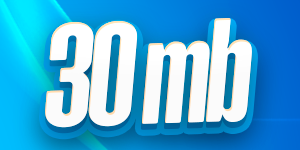
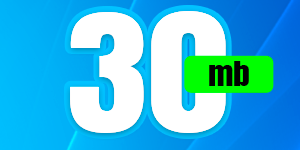
feat: change plans design

diff --git a/src/pages/home/sections/ChoosePlan/index.tsx b/src/pages/home/sections/ChoosePlan/index.tsx
@@ -86,11 +86,6 @@ export default function Plans() {
               btnName="Contratar"
               content={
                 <div>
-                  <Typography
-                    title={"300MB"}
-                    alignment="center"
-                    descriptionAlignment="center"
-                  />
                   <div>
                     {generateAdvantages(
                      <RiSpeedUpFill size={iconSize}/>,
@@ -131,11 +126,6 @@ export default function Plans() {
               btnName="Contratar"
               content={
                 <div>
-                  <Typography
-                    title={"200MB"}
-                    alignment="center"
-                    descriptionAlignment="center"
-                  />
                   <div>
                     {generateAdvantages(
                       <RiSpeedUpFill size={iconSize}/>,
@@ -176,11 +166,6 @@ export default function Plans() {
               btnName="Contratar"
               content={
                 <div className={plans.description}>
-                  <Typography
-                    title={"100MB"}
-                    alignment="center"
-                    descriptionAlignment="center"
-                  />
                   <div>
                     {generateAdvantages(
                      <RiSpeedUpFill size={iconSize}/>,
@@ -222,7 +207,6 @@ export default function Plans() {
               btnName="Contratar"
               content={
                 <div className={plans.description}>
-                  <h1 className={plans.cardTitle}>70MB</h1>
                   <div>
                     {generateAdvantages(
                       <RiSpeedUpFill size={iconSize} style={{transform: "scaleX(-1)"}}/>,
@@ -259,7 +243,6 @@ export default function Plans() {
               btnName="Contratar"
               content={
                 <div className={plans.description}>
-                  <h1 className={plans.cardTitle}>50MB</h1>
                   <div>
                     {generateAdvantages(
                       <RiSpeedUpFill size={iconSize} style={{transform: "scaleX(-1)"}}/>,
@@ -296,7 +279,6 @@ export default function Plans() {
               btnName="Contratar"
               content={
                 <div className={plans.description}>
-                  <h1 className={plans.cardTitle}>30MB</h1>
                   <div>
                     {generateAdvantages(
                       <RiSpeedUpFill size={iconSize} style={{transform: "scaleX(-1)"}}/>,

diff --git a/src/pages/Contact/sections/ContactForm/index.tsx b/src/pages/Contact/sections/ContactForm/index.tsx
@@ -1,10 +1,11 @@
 import React from 'react';
-import { Button, Form, Input, Select, Space } from 'antd';
+import { Button, Form, FormInstance, Input, Select, Space } from 'antd';
 import TextArea from 'antd/es/input/TextArea';
 import { useMediaQuery } from 'react-responsive';
+// import nodemailer from 'nodemailer';
 
 
-const SubmitButton = ({ form, children }:any) => {
+const SubmitButton = ({ form, children }:{form:FormInstance<any>, children:any}) => {
   const [submittable, setSubmittable] = React.useState(false);
   // Watch all values
   const values = Form.useWatch([], form);
@@ -17,12 +18,43 @@ const SubmitButton = ({ form, children }:any) => {
       .catch(() => setSubmittable(false));
   }, [form, values]);
   return (
-    <Button type="primary" htmlType="submit" disabled={!submittable}>
+    <Button onSubmit={() => sendEmail(form)} type="primary" htmlType="submit" disabled={!submittable}>
       {children}
     </Button>
   );
 };
 
+
+const sendEmail = async (form:FormInstance<any>) => {
+}
+// const sendEmail = async (form:FormInstance<any>) => {
+//   const transporter = nodemailer.createTransport({
+//     host: process.env.REACT_APP_EMAIL_HOST,
+//     port: 465,
+//     secure: true,
+//     auth: {
+//       user: process.env.REACT_APP_EMAIL_USER,
+//       pass: process.env.REACT_APP_EMAIL_PASS,
+//     },
+//   });
+
+//   const options = {
+//     from: form.getFieldValue("email"),
+//     to: process.env.REACT_APP_EMAIL_TO,
+//     subject: form.getFieldValue("subject"),
+//     html: `
+//     <h1>Contato</h1>
+//     <p><strong>Nome:</strong> ${form.getFieldValue("name")}</p>
+//     <p><strong>Email:</strong> ${form.getFieldValue("email")}</p>
+//     <p><strong>Telefone:</strong> ${form.getFieldValue("phone")}</p>
+//     <p><strong>Assunto:</strong> ${form.getFieldValue("subject")}</p>
+//     <p><strong>Setor:</strong> ${form.getFieldValue("sector")}</p>
+//     <p><strong>Mensagem:</strong> ${form.getFieldValue("message")}</p>
+//     `,
+//   };
+  
+//   await transporter.sendMail(options);
+// }
 
 export default function ContactForm() {
   const isMobile = useMediaQuery({ query: '(max-width: 768px)' });

diff --git a/src/pages/home/sections/ChoosePlan/plans.module.sass b/src/pages/home/sections/ChoosePlan/plans.module.sass
@@ -37,6 +37,8 @@
         flex-direction: column
         height: 100%
         border: 2px solid #ddd
+        >:last-child
+          padding: 12px
       .description
         display: flex
         flex-direction: column

diff --git a/src/components/NewCard/newCard.module.sass b/src/components/NewCard/newCard.module.sass
@@ -16,6 +16,9 @@
   flex-flow: column nowrap
   justify-content: center
   align-items: center
+  h2
+    font-size: 1.4rem
+    margin: 3%
 
 #content
   display: flex
